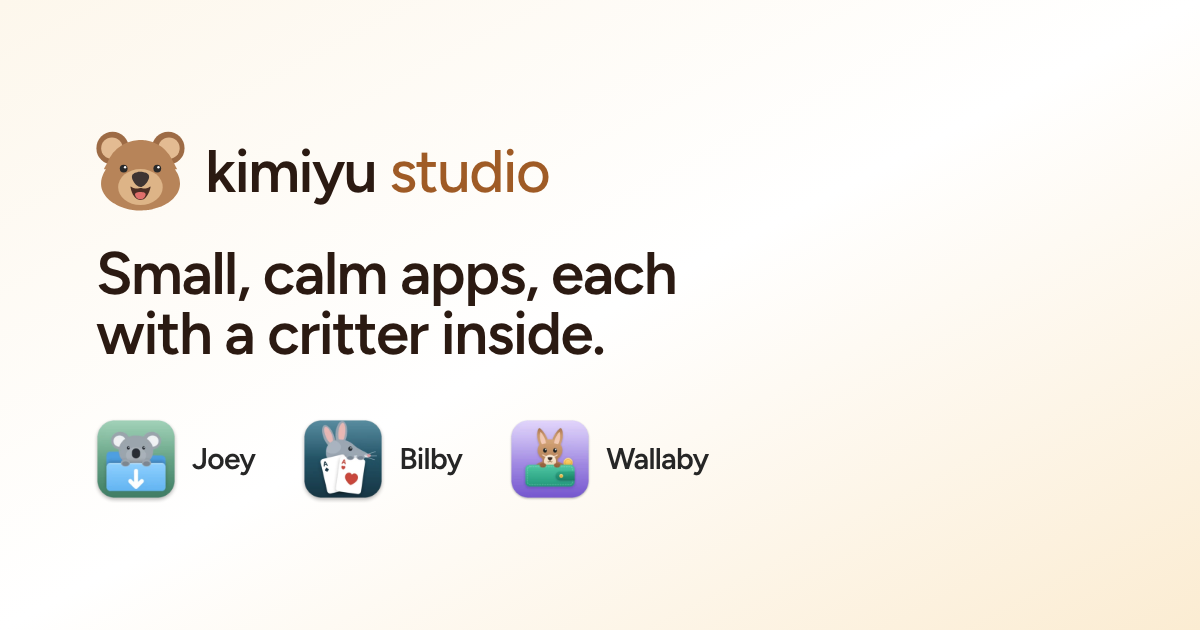
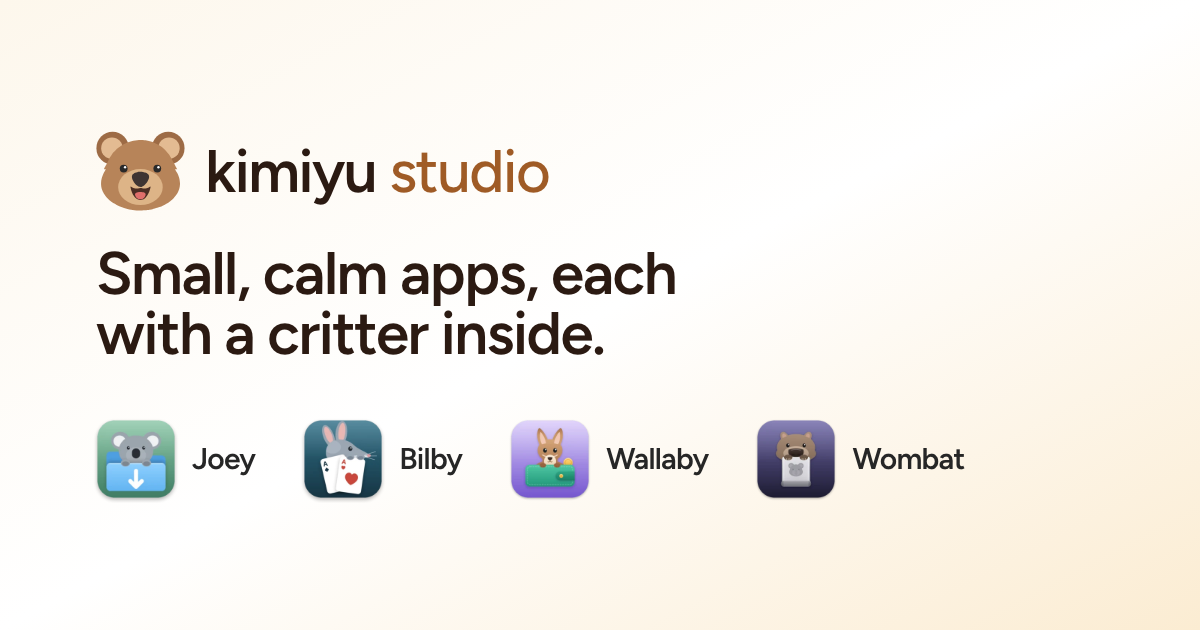
Add Wombat to the apps
Fourth card (burrow colour from wombat.web), its icon, the share image,
meta description, legal links and tests. The cards now sit two by two.

Changed region(s): [[0.6167, 0.6635, 0.8017, 0.8143]]

diff --git a/public/build/assets/app-BUD_Z4BQ.css b/public/build/assets/app-BUD_Z4BQ.css
@@ -1,0 +1,2 @@
+/*! tailwindcss v4.3.3 | MIT License | https://tailwindcss.com */
+@layer properties{@supports (((-webkit-hyphens:none)) and (not (margin-trim:inline))) or ((-moz-orient:inline) and (not (color:rgb(from red r g b)))){*,:before,:after,::backdrop{--tw-space-y-reverse:0;--tw-divide-y-reverse:0;--tw-border-style:solid;--tw-gradient-position:initial;--tw-gradient-from:#0000;--tw-gradient-via:#0000;--tw-gradient-to:#0000;--tw-gradient-stops:initial;--tw-gradient-via-stops:initial;--tw-gradient-from-position:0%;--tw-gradient-via-position:50%;--tw-gradient-to-position:100%;--tw-font-weight:initial;--tw-tracking:initial;--tw-shadow:0 0 #0000;--tw-shadow-color:initial;--tw-shadow-alpha:100%;--tw-inset-shadow:0 0 #0000;--tw-inset-shadow-color:initial;--tw-inset-shadow-alpha:100%;--tw-ring-color:initial;--tw-ring-shadow:0 0 #0000;--tw-inset-ring-color:initial;--tw-inset-ring-shadow:0 0 #0000;--tw-ring-inset:initial;--tw-ring-offset-width:0px;--tw-ring-offset-color:#fff;--tw-ring-offset-shadow:0 0 #0000;--tw-translate-x:0;--tw-translate-y:0;--tw-translate-z:0;--tw-outline-style:solid}}}@layer theme{:root,:host{--font-sans:var(--font-inter), ui-sans-serif, system-ui, sans-serif;--font-mono:ui-monospace, SFMono-Regular, Menlo, Monaco, Consolas, "Liberation Mono", "Courier New", monospace;--color-neutral-500:oklch(55.6% 0 none);--color-neutral-600:oklch(43.9% 0 none);--color-neutral-700:oklch(37.1% 0 none);--color-neutral-800:oklch(26.9% 0 none);--color-neutral-950:oklch(14.5% 0 none);--color-white:#fff;--spacing:.25rem;--container-6xl:72rem;--text-sm:.875rem;--text-base:1rem;--text-lg:1.125rem;--text-xl:1.25rem;--text-xl--line-height:calc(1.75 / 1.25);--text-2xl:1.5rem;--text-2xl--line-height:calc(2 / 1.5);--text-3xl:1.875rem;--text-3xl--line-height:calc(2.25 / 1.875);--text-4xl:2.25rem;--text-4xl--line-height:calc(2.5 / 2.25);--text-5xl:3rem;--text-5xl--line-height:1;--text-6xl:3.75rem;--text-6xl--line-height:1;--text-7xl:4.5rem;--text-7xl--line-height:1;--font-weight-normal:400;--font-weight-medium:500;--font-weight-semibold:600;--tracking-tight:-.025em;--radius-3xl:1.5rem;--default-transition-duration:.15s;--default-transition-timing-function:cubic-bezier(.4, 0, .2, 1);--default-font-family:var(--font-sans);--default-font-feature-settings:var(--font-sans--font-feature-settings);--default-mono-font-family:var(--font-mono);--font-sans--font-feature-settings:"cv02", "cv03", "cv04", "cv11";--font-display:var(--font-figtree), ui-sans-serif, system-ui, sans-serif;--color-honey-50:#fdf7ec;--color-honey-100:#fbecd2;--color-honey-600:#9f5b26;--color-honey-700:#824a22;--color-honey-800:#6b3d20;--color-honey-950:#2b1a12;--color-gum-50:#f1f8f4;--color-gum-700:#2f6450;--color-gum-950:#10261e;--color-chip-50:#eef7f9;--color-chip-700:#24576a;--color-chip-950:#112832;--color-lilac-50:#f6f3fe;--color-lilac-700:#6243b3;--color-lilac-950:#2a1d4d;--color-burrow-50:#f4f4fa;--color-burrow-700:#484276;--color-burrow-950:#1d1b31}}@layer base{*,:after,:before,::backdrop{box-sizing:border-box;border:0 solid;margin:0;padding:0}::file-selector-button{box-sizing:border-box;border:0 solid;margin:0;padding:0}html,:host{-webkit-text-size-adjust:100%;tab-size:4;line-height:1.5;font-family:var(--default-font-family,-apple-system, BlinkMacSystemFont, "Segoe UI", Roboto, "Helvetica Neue", "Noto Sans", Arial, sans-serif, "Apple Color Emoji", "Segoe UI Emoji", "Segoe UI Symbol", "Noto Color Emoji");font-feature-settings:var(--default-font-feature-settings,normal);font-variation-settings:var(--default-font-variation-settings,normal);-webkit-tap-highlight-color:transparent}hr{height:0;color:inherit;border-top-width:1px}abbr:where([title]){-webkit-text-decoration:underline dotted;text-decoration:underline dotted}h1,h2,h3,h4,h5,h6{font-size:inherit;font-weight:inherit}a{color:inherit;-webkit-text-decoration:inherit;-webkit-text-decoration:inherit;-webkit-text-decoration:inherit;-webkit-text-decoration:inherit;text-decoration:inherit}b,strong{font-weight:bolder}code,kbd,samp,pre{font-family:var(--default-mono-font-family,ui-monospace, SFMono-Regular, Menlo, Monaco, Consolas, "Liberation Mono", "Courier New", monospace);font-feature-settings:var(--default-mono-font-feature-settings,normal);font-variation-settings:var(--default-mono-font-variation-settings,normal);font-size:1em}small{font-size:80%}sub,sup{vertical-align:baseline;font-size:75%;line-height:0;position:relative}sub{bottom:-.25em}sup{top:-.5em}table{text-indent:0;border-color:inherit;border-collapse:collapse}:-moz-focusring:where(:not(iframe)){outline:auto}progress{vertical-align:baseline}summary{display:list-item}ol,ul,menu{list-style:none}img,svg,video,canvas,audio,iframe,embed,object{vertical-align:middle;display:block}img,video{max-width:100%;height:auto}button,input,select,optgroup,textarea{font:inherit;font-feature-settings:inherit;font-variation-settings:inherit;letter-spacing:inherit;color:inherit;opacity:1;background-color:#0000;border-radius:0}::file-selector-button{font:inherit;font-feature-settings:inherit;font-variation-settings:inherit;letter-spacing:inherit;color:inherit;opacity:1;background-color:#0000;border-radius:0}:where(select:is([multiple],[size])) optgroup{font-weight:bolder}:where(select:is([multiple],[size])) optgroup option{padding-inline-start:20px}::file-selector-button{margin-inline-end:4px}::placeholder{opacity:1}@supports (not ((-webkit-appearance:-apple-pay-button))) or (contain-intrinsic-size:1px){::placeholder{color:currentColor}@supports (color:color-mix(in lab, red, red)){::placeholder{color:color-mix(in oklab, currentcolor 50%, transparent)}}}textarea{resize:vertical}::-webkit-search-decoration{-webkit-appearance:none}::-webkit-date-and-time-value{min-height:1lh;text-align:inherit}::-webkit-datetime-edit{display:inline-flex}::-webkit-datetime-edit-fields-wrapper{padding:0}::-webkit-datetime-edit{padding-block:0}::-webkit-datetime-edit-year-field{padding-block:0}::-webkit-datetime-edit-month-field{padding-block:0}::-webkit-datetime-edit-day-field{padding-block:0}::-webkit-datetime-edit-hour-field{padding-block:0}::-webkit-datetime-edit-minute-field{padding-block:0}::-webkit-datetime-edit-second-field{padding-block:0}::-webkit-datetime-edit-millisecond-field{padding-block:0}::-webkit-datetime-edit-meridiem-field{padding-block:0}::-webkit-calendar-picker-indicator{line-height:1}:-moz-ui-invalid{box-shadow:none}button,input:where([type=button],[type=reset],[type=submit]){appearance:button}::file-selector-button{appearance:button}::-webkit-inner-spin-button{height:auto}::-webkit-outer-spin-button{height:auto}[hidden]:where(:not([hidden=until-found])){display:none!important}}@layer components;@layer utilities{.absolute{position:absolute}.relative{position:relative}.inset-x-0{inset-inline:0}.top-0{top:0}.isolate{isolation:isolate}.-z-10{z-index:calc(10 * -1)}.-m-2{margin:calc(var(--spacing) * -2)}.m-0{margin:0}.mx-auto{margin-inline:auto}.mt-1{margin-top:var(--spacing)}.mt-2{margin-top:calc(var(--spacing) * 2)}.mt-4{margin-top:calc(var(--spacing) * 4)}.mt-6{margin-top:calc(var(--spacing) * 6)}.mt-8{margin-top:calc(var(--spacing) * 8)}.mt-10{margin-top:calc(var(--spacing) * 10)}.mt-14{margin-top:calc(var(--spacing) * 14)}.mt-16{margin-top:calc(var(--spacing) * 16)}.mt-auto{margin-top:auto}.flex{display:flex}.grid{display:grid}.inline-flex{display:inline-flex}.size-5{width:calc(var(--spacing) * 5);height:calc(var(--spacing) * 5)}.size-6{width:calc(var(--spacing) * 6);height:calc(var(--spacing) * 6)}.size-24{width:calc(var(--spacing) * 24);height:calc(var(--spacing) * 24)}.h-6{height:calc(var(--spacing) * 6)}.h-7{height:calc(var(--spacing) * 7)}.h-20{height:calc(var(--spacing) * 20)}.h-\[44rem\]{height:44rem}.h-\[630px\]{height:630px}.w-\[1200px\]{width:1200px}.w-auto{width:auto}.w-full{width:100%}.max-w-6xl{max-width:var(--container-6xl)}.max-w-\[20ch\]{max-width:20ch}.max-w-\[22ch\]{max-width:22ch}.max-w-\[30ch\]{max-width:30ch}.max-w-\[48ch\]{max-width:48ch}.max-w-\[56ch\]{max-width:56ch}.max-w-\[65ch\]{max-width:65ch}.shrink-0{flex-shrink:0}.scroll-mt-8{scroll-margin-top:calc(var(--spacing) * 8)}.grid-cols-1{grid-template-columns:repeat(1,minmax(0,1fr))}.flex-col{flex-direction:column}.flex-wrap{flex-wrap:wrap}.items-center{align-items:center}.justify-between{justify-content:space-between}.justify-center{justify-content:center}.justify-end{justify-content:flex-end}.gap-4{gap:calc(var(--spacing) * 4)}.gap-6{gap:calc(var(--spacing) * 6)}.gap-8{gap:calc(var(--spacing) * 8)}:where(.space-y-4>:not(:last-child)){--tw-space-y-reverse:0;margin-block-start:calc(calc(var(--spacing) * 4) * var(--tw-space-y-reverse));margin-block-end:calc(calc(var(--spacing) * 4) * calc(1 - var(--tw-space-y-reverse)))}.gap-x-1\.5{column-gap:calc(var(--spacing) * 1.5)}.gap-x-2{column-gap:calc(var(--spacing) * 2)}.gap-x-2\.5{column-gap:calc(var(--spacing) * 2.5)}.gap-x-3{column-gap:calc(var(--spacing) * 3)}.gap-x-4{column-gap:calc(var(--spacing) * 4)}.gap-x-5{column-gap:calc(var(--spacing) * 5)}.gap-x-6{column-gap:calc(var(--spacing) * 6)}.gap-x-8{column-gap:calc(var(--spacing) * 8)}.gap-x-12{column-gap:calc(var(--spacing) * 12)}.gap-y-2{row-gap:calc(var(--spacing) * 2)}.gap-y-4{row-gap:calc(var(--spacing) * 4)}:where(.divide-y>:not(:last-child)){--tw-divide-y-reverse:0;border-bottom-style:var(--tw-border-style);border-top-style:var(--tw-border-style);border-top-width:calc(1px * var(--tw-divide-y-reverse));border-bottom-width:calc(1px * calc(1 - var(--tw-divide-y-reverse)))}:where(.divide-neutral-950\/5>:not(:last-child)){border-color:#0a0a0a0d}@supports (color:color-mix(in lab, red, red)){:where(.divide-neutral-950\/5>:not(:last-child)){border-color:color-mix(in oklab, var(--color-neutral-950) 5%, transparent)}}.self-start{align-self:flex-start}.overflow-hidden{overflow:hidden}.rounded-3xl{border-radius:var(--radius-3xl)}.rounded-full{border-radius:2147483647px}.border-t{border-top-style:var(--tw-border-style);border-top-width:1px}.border-neutral-950\/5{border-color:#0a0a0a0d}@supports (color:color-mix(in lab, red, red)){.border-neutral-950\/5{border-color:color-mix(in oklab, var(--color-neutral-950) 5%, transparent)}}.bg-honey-600{background-color:var(--color-honey-600)}.bg-white{background-color:var(--color-white)}.bg-linear-to-b{--tw-gradient-position:to bottom}@supports (background-image:linear-gradient(in lab, red, red)){.bg-linear-to-b{--tw-gradient-position:to bottom in oklab}}.bg-linear-to-b{background-image:linear-gradient(var(--tw-gradient-stops))}.bg-linear-to-br{--tw-gradient-position:to bottom right}@supports (background-image:linear-gradient(in lab, red, red)){.bg-linear-to-br{--tw-gradient-position:to bottom right in oklab}}.bg-linear-to-br{background-image:linear-gradient(var(--tw-gradient-stops))}.from-burrow-50{--tw-gradient-from:var(--color-burrow-50);--tw-gradient-stops:var(--tw-gradient-via-stops,var(--tw-gradient-position), var(--tw-gradient-from) var(--tw-gradient-from-position), var(--tw-gradient-to) var(--tw-gradient-to-position))}.from-chip-50{--tw-gradient-from:var(--color-chip-50);--tw-gradient-stops:var(--tw-gradient-via-stops,var(--tw-gradient-position), var(--tw-gradient-from) var(--tw-gradient-from-position), var(--tw-gradient-to) var(--tw-gradient-to-position))}.from-gum-50{--tw-gradient-from:var(--color-gum-50);--tw-gradient-stops:var(--tw-gradient-via-stops,var(--tw-gradient-position), var(--tw-gradient-from) var(--tw-gradient-from-position), var(--tw-gradient-to) var(--tw-gradient-to-position))}.from-honey-50{--tw-gradient-from:var(--color-honey-50);--tw-gradient-stops:var(--tw-gradient-via-stops,var(--tw-gradient-position), var(--tw-gradient-from) var(--tw-gradient-from-position), var(--tw-gradient-to) var(--tw-gradient-to-position))}.from-lilac-50{--tw-gradient-from:var(--color-lilac-50);--tw-gradient-stops:var(--tw-gradient-via-stops,var(--tw-gradient-position), var(--tw-gradient-from) var(--tw-gradient-from-position), var(--tw-gradient-to) var(--tw-gradient-to-position))}.via-white{--tw-gradient-via:var(--color-white);--tw-gradient-via-stops:var(--tw-gradient-position), var(--tw-gradient-from) var(--tw-gradient-from-position), var(--tw-gradient-via) var(--tw-gradient-via-position), var(--tw-gradient-to) var(--tw-gradient-to-position);--tw-gradient-stops:var(--tw-gradient-via-stops)}.to-honey-100{--tw-gradient-to:var(--color-honey-100);--tw-gradient-stops:var(--tw-gradient-via-stops,var(--tw-gradient-position), var(--tw-gradient-from) var(--tw-gradient-from-position), var(--tw-gradient-to) var(--tw-gradient-to-position))}.to-white{--tw-gradient-to:var(--color-white);--tw-gradient-stops:var(--tw-gradient-via-stops,var(--tw-gradient-position), var(--tw-gradient-from) var(--tw-gradient-from-position), var(--tw-gradient-to) var(--tw-gradient-to-position))}.to-60\%{--tw-gradient-to-position:60%}.fill-current{fill:currentColor}.fill-white{fill:var(--color-white)}.stroke-honey-600{stroke:var(--color-honey-600)}.p-8{padding:calc(var(--spacing) * 8)}.px-3{padding-inline:calc(var(--spacing) * 3)}.px-6{padding-inline:calc(var(--spacing) * 6)}.px-24{padding-inline:calc(var(--spacing) * 24)}.py-1\.5{padding-block:calc(var(--spacing) * 1.5)}.py-3{padding-block:calc(var(--spacing) * 3)}.py-5{padding-block:calc(var(--spacing) * 5)}.py-10{padding-block:calc(var(--spacing) * 10)}.py-12{padding-block:calc(var(--spacing) * 12)}.py-24{padding-block:calc(var(--spacing) * 24)}.pt-8{padding-top:calc(var(--spacing) * 8)}.pt-10{padding-top:calc(var(--spacing) * 10)}.pt-16{padding-top:calc(var(--spacing) * 16)}.pr-4{padding-right:calc(var(--spacing) * 4)}.pr-5{padding-right:calc(var(--spacing) * 5)}.pb-24{padding-bottom:calc(var(--spacing) * 24)}.pl-4{padding-left:calc(var(--spacing) * 4)}.pl-5{padding-left:calc(var(--spacing) * 5)}.text-center{text-align:center}.font-sans{font-family:var(--font-sans);font-feature-settings:var(--font-sans--font-feature-settings)}.font-display{font-family:var(--font-display)}.text-2xl{font-size:var(--text-2xl);line-height:var(--tw-leading,var(--text-2xl--line-height))}.text-3xl{font-size:var(--text-3xl);line-height:var(--tw-leading,var(--text-3xl--line-height))}.text-4xl{font-size:var(--text-4xl);line-height:var(--tw-leading,var(--text-4xl--line-height))}.text-5xl{font-size:var(--text-5xl);line-height:var(--tw-leading,var(--text-5xl--line-height))}.text-6xl{font-size:var(--text-6xl);line-height:var(--tw-leading,var(--text-6xl--line-height))}.text-base\/6{font-size:var(--text-base);line-height:calc(var(--spacing) * 6)}.text-base\/7{font-size:var(--text-base);line-height:calc(var(--spacing) * 7)}.text-lg\/7{font-size:var(--text-lg);line-height:calc(var(--spacing) * 7)}.text-lg\/8{font-size:var(--text-lg);line-height:calc(var(--spacing) * 8)}.text-sm\/6{font-size:var(--text-sm);line-height:calc(var(--spacing) * 6)}.text-xl{font-size:var(--text-xl);line-height:var(--tw-leading,var(--text-xl--line-height))}.font-medium{--tw-font-weight:var(--font-weight-medium);font-weight:var(--font-weight-medium)}.font-normal{--tw-font-weight:var(--font-weight-normal);font-weight:var(--font-weight-normal)}.font-semibold{--tw-font-weight:var(--font-weight-semibold);font-weight:var(--font-weight-semibold)}.tracking-tight{--tw-tracking:var(--tracking-tight);letter-spacing:var(--tracking-tight)}.text-balance{text-wrap:balance}.text-pretty{text-wrap:pretty}.whitespace-nowrap{white-space:nowrap}.text-burrow-700{color:var(--color-burrow-700)}.text-burrow-950{color:var(--color-burrow-950)}.text-chip-700{color:var(--color-chip-700)}.text-chip-950{color:var(--color-chip-950)}.text-gum-700{color:var(--color-gum-700)}.text-gum-950{color:var(--color-gum-950)}.text-honey-600{color:var(--color-honey-600)}.text-honey-800{color:var(--color-honey-800)}.text-honey-950{color:var(--color-honey-950)}.text-lilac-700{color:var(--color-lilac-700)}.text-lilac-950{color:var(--color-lilac-950)}.text-neutral-500{color:var(--color-neutral-500)}.text-neutral-600{color:var(--color-neutral-600)}.text-neutral-700{color:var(--color-neutral-700)}.text-neutral-800{color:var(--color-neutral-800)}.text-neutral-950{color:var(--color-neutral-950)}.text-white{color:var(--color-white)}.antialiased{-webkit-font-smoothing:antialiased;-moz-osx-font-smoothing:grayscale}.shadow-sm{--tw-shadow:0 1px 3px 0 var(--tw-shadow-color,#0000001a), 0 1px 2px -1px var(--tw-shadow-color,#0000001a);box-shadow:var(--tw-inset-shadow), var(--tw-inset-ring-shadow), var(--tw-ring-offset-shadow), var(--tw-ring-shadow), var(--tw-shadow)}.ring-1{--tw-ring-shadow:var(--tw-ring-inset,) 0 0 0 calc(1px + var(--tw-ring-offset-width)) var(--tw-ring-color,currentcolor);box-shadow:var(--tw-inset-shadow), var(--tw-inset-ring-shadow), var(--tw-ring-offset-shadow), var(--tw-ring-shadow), var(--tw-shadow)}.ring-burrow-950\/10{--tw-ring-color:#1d1b311a}@supports (color:color-mix(in lab, red, red)){.ring-burrow-950\/10{--tw-ring-color:color-mix(in oklab, var(--color-burrow-950) 10%, transparent)}}.ring-chip-950\/10{--tw-ring-color:#1128321a}@supports (color:color-mix(in lab, red, red)){.ring-chip-950\/10{--tw-ring-color:color-mix(in oklab, var(--color-chip-950) 10%, transparent)}}.ring-gum-950\/10{--tw-ring-color:#10261e1a}@supports (color:color-mix(in lab, red, red)){.ring-gum-950\/10{--tw-ring-color:color-mix(in oklab, var(--color-gum-950) 10%, transparent)}}.ring-honey-950\/10{--tw-ring-color:#2b1a121a}@supports (color:color-mix(in lab, red, red)){.ring-honey-950\/10{--tw-ring-color:color-mix(in oklab, var(--color-honey-950) 10%, transparent)}}.ring-lilac-950\/10{--tw-ring-color:#2a1d4d1a}@supports (color:color-mix(in lab, red, red)){.ring-lilac-950\/10{--tw-ring-color:color-mix(in oklab, var(--color-lilac-950) 10%, transparent)}}@media (hover:hover){.group-hover\:translate-x-0\.5:is(:where(.group):hover *){--tw-translate-x:calc(var(--spacing) * .5);translate:var(--tw-translate-x) var(--tw-translate-y)}.hover\:bg-honey-50:hover{background-color:var(--color-honey-50)}.hover\:bg-honey-700:hover{background-color:var(--color-honey-700)}.hover\:text-honey-600:hover{color:var(--color-honey-600)}.hover\:text-honey-700:hover{color:var(--color-honey-700)}.hover\:ring-burrow-950\/20:hover{--tw-ring-color:#1d1b3133}@supports (color:color-mix(in lab, red, red)){.hover\:ring-burrow-950\/20:hover{--tw-ring-color:color-mix(in oklab, var(--color-burrow-950) 20%, transparent)}}.hover\:ring-chip-950\/20:hover{--tw-ring-color:#11283233}@supports (color:color-mix(in lab, red, red)){.hover\:ring-chip-950\/20:hover{--tw-ring-color:color-mix(in oklab, var(--color-chip-950) 20%, transparent)}}.hover\:ring-gum-950\/20:hover{--tw-ring-color:#10261e33}@supports (color:color-mix(in lab, red, red)){.hover\:ring-gum-950\/20:hover{--tw-ring-color:color-mix(in oklab, var(--color-gum-950) 20%, transparent)}}.hover\:ring-lilac-950\/20:hover{--tw-ring-color:#2a1d4d33}@supports (color:color-mix(in lab, red, red)){.hover\:ring-lilac-950\/20:hover{--tw-ring-color:color-mix(in oklab, var(--color-lilac-950) 20%, transparent)}}}.focus-visible\:outline-2:focus-visible{outline-style:var(--tw-outline-style);outline-width:2px}.focus-visible\:outline-offset-2:focus-visible{outline-offset:2px}.focus-visible\:outline-honey-600:focus-visible{outline-color:var(--color-honey-600)}@media (prefers-reduced-motion:no-preference){.motion-safe\:scroll-smooth{scroll-behavior:smooth}.motion-safe\:transition-transform{transition-property:transform,translate,scale,rotate;transition-timing-function:var(--tw-ease,var(--default-transition-timing-function));transition-duration:var(--tw-duration,var(--default-transition-duration))}}@media not all and (width>=40rem){.max-sm\:hidden{display:none}}@media (width>=40rem){.sm\:size-4{width:calc(var(--spacing) * 4);height:calc(var(--spacing) * 4)}.sm\:grid-cols-\[12rem_1fr\]{grid-template-columns:12rem 1fr}.sm\:flex-row{flex-direction:row}.sm\:items-center{align-items:center}.sm\:justify-between{justify-content:space-between}.sm\:py-32{padding-block:calc(var(--spacing) * 32)}.sm\:pt-16{padding-top:calc(var(--spacing) * 16)}.sm\:pt-24{padding-top:calc(var(--spacing) * 24)}.sm\:pb-32{padding-bottom:calc(var(--spacing) * 32)}.sm\:text-5xl{font-size:var(--text-5xl);line-height:var(--tw-leading,var(--text-5xl--line-height))}.sm\:text-7xl{font-size:var(--text-7xl);line-height:var(--tw-leading,var(--text-7xl--line-height))}.sm\:text-base\/7{font-size:var(--text-base);line-height:calc(var(--spacing) * 7)}.sm\:text-sm\/6{font-size:var(--text-sm);line-height:calc(var(--spacing) * 6)}.sm\:text-xl\/8{font-size:var(--text-xl);line-height:calc(var(--spacing) * 8)}}@media (width>=48rem){.md\:grid-cols-2{grid-template-columns:repeat(2,minmax(0,1fr))}}@media (width>=64rem){.lg\:col-span-2{grid-column:span 2/span 2}.lg\:grid-cols-3{grid-template-columns:repeat(3,minmax(0,1fr))}.lg\:items-end{align-items:flex-end}.lg\:self-end{align-self:flex-end}.lg\:px-8{padding-inline:calc(var(--spacing) * 8)}}}@property --tw-space-y-reverse{syntax:"*";inherits:false;initial-value:0}@property --tw-divide-y-reverse{syntax:"*";inherits:false;initial-value:0}@property --tw-border-style{syntax:"*";inherits:false;initial-value:solid}@property --tw-gradient-position{syntax:"*";inherits:false}@property --tw-gradient-from{syntax:"<color>";inherits:false;initial-value:#0000}@property --tw-gradient-via{syntax:"<color>";inherits:false;initial-value:#0000}@property --tw-gradient-to{syntax:"<color>";inherits:false;initial-value:#0000}@property --tw-gradient-stops{syntax:"*";inherits:false}@property --tw-gradient-via-stops{syntax:"*";inherits:false}@property --tw-gradient-from-position{syntax:"<length-percentage>";inherits:false;initial-value:0%}@property --tw-gradient-via-position{syntax:"<length-percentage>";inherits:false;initial-value:50%}@property --tw-gradient-to-position{syntax:"<length-percentage>";inherits:false;initial-value:100%}@property --tw-font-weight{syntax:"*";inherits:false}@property --tw-tracking{syntax:"*";inherits:false}@property --tw-shadow{syntax:"*";inherits:false;initial-value:0 0 #0000}@property --tw-shadow-color{syntax:"*";inherits:false}@property --tw-shadow-alpha{syntax:"<percentage>";inherits:false;initial-value:100%}@property --tw-inset-shadow{syntax:"*";inherits:false;initial-value:0 0 #0000}@property --tw-inset-shadow-color{syntax:"*";inherits:false}@property --tw-inset-shadow-alpha{syntax:"<percentage>";inherits:false;initial-value:100%}@property --tw-ring-color{syntax:"*";inherits:false}@property --tw-ring-shadow{syntax:"*";inherits:false;initial-value:0 0 #0000}@property --tw-inset-ring-color{syntax:"*";inherits:false}@property --tw-inset-ring-shadow{syntax:"*";inherits:false;initial-value:0 0 #0000}@property --tw-ring-inset{syntax:"*";inherits:false}@property --tw-ring-offset-width{syntax:"<length>";inherits:false;initial-value:0}@property --tw-ring-offset-color{syntax:"*";inherits:false;initial-value:#fff}@property --tw-ring-offset-shadow{syntax:"*";inherits:false;initial-value:0 0 #0000}@property --tw-translate-x{syntax:"*";inherits:false;initial-value:0}@property --tw-translate-y{syntax:"*";inherits:false;initial-value:0}@property --tw-translate-z{syntax:"*";inherits:false;initial-value:0}@property --tw-outline-style{syntax:"*";inherits:false;initial-value:solid}

diff --git a/resources/css/app.css b/resources/css/app.css
@@ -31,4 +31,7 @@
     --color-lilac-50: #f6f3fe;
     --color-lilac-700: #6243b3;
     --color-lilac-950: #2a1d4d;
+    --color-burrow-50: #f4f4fa;
+    --color-burrow-700: #484276;
+    --color-burrow-950: #1d1b31;
 }

diff --git a/resources/views/home.blade.php b/resources/views/home.blade.php
@@ -65,13 +65,13 @@
             <div class="mx-auto max-w-6xl px-6 lg:px-8">
                 <p class="text-base/7 font-semibold text-honey-600">The apps</p>
                 <h2 class="mt-2 max-w-[30ch] font-display text-4xl font-semibold tracking-tight text-balance text-honey-950 sm:text-5xl">
-                    Three critters, three small jobs
+                    Four critters, four small jobs
                 </h2>
                 <p class="mt-6 max-w-[48ch] text-lg/8 text-pretty text-neutral-600">
                     Each app has its own website, with everything you need to get started.
                 </p>
 
-                <ul role="list" class="mt-16 grid grid-cols-1 gap-8 lg:grid-cols-3">
+                <ul role="list" class="mt-16 grid grid-cols-1 gap-8 md:grid-cols-2">
                     @foreach ($apps as $app)
                         <li class="flex">
                             <x-app-card :app="$app" class="w-full" />
@@ -103,7 +103,7 @@
                     Experience knows what’s worth building. AI makes building it fast. Together they turn a good idea into a finished app in days, not months.
                 </p>
 
-                <dl class="mt-16 grid grid-cols-1 gap-8 lg:grid-cols-3">
+                <dl class="mt-16 grid grid-cols-1 gap-8 md:grid-cols-2">
                     @foreach ($principles as $principle)
                         <div>
                             <dt class="flex items-center gap-x-3 text-lg/7 font-semibold text-honey-950 sm:text-base/7">
@@ -126,7 +126,7 @@
                         Questions, ideas or a bug to report?
                     </h2>
                     <p class="mt-6 max-w-[48ch] text-lg/8 text-pretty text-neutral-600">
-                        Write to us. For Joey, you can also open an issue on GitHub.
+                        Write to us. For Joey and Wombat, you can also open an issue on GitHub.
                     </p>
                 </div>
                 <div class="flex flex-col justify-end gap-4 lg:items-end">

diff --git a/resources/views/components/layouts/app.blade.php b/resources/views/components/layouts/app.blade.php
@@ -1,6 +1,6 @@
 @props([
     'title' => 'kimiyu studio: small, calm apps, each with a critter inside',
-    'description' => 'kimiyu studio makes small, calm apps: Joey, a BitTorrent client for the Mac; Bilby, a poker tournament clock; and Wallaby, a shared tab for couples and housemates.',
+    'description' => 'kimiyu studio makes small, calm apps: Joey, a BitTorrent client for the Mac; Bilby, a poker tournament clock; Wallaby, a shared tab for couples and housemates; and Wombat, a disk space app for the Mac.',
 ])
 
 @php
@@ -25,7 +25,7 @@
     <meta property="og:image" content="{{ asset('images/og.png') }}">
     <meta property="og:image:width" content="1200">
     <meta property="og:image:height" content="630">
-    <meta property="og:image:alt" content="The kimiyu bear next to the words: Small, calm apps, each with a critter inside. Below, the icons of Joey, Bilby and Wallaby.">
+    <meta property="og:image:alt" content="The kimiyu bear next to the words: Small, calm apps, each with a critter inside. Below, the icons of Joey, Bilby, Wallaby and Wombat.">
     <meta name="twitter:card" content="summary_large_image">
 
     <link rel="icon" type="image/svg+xml" href="{{ asset('favicon.svg') }}">

diff --git a/resources/views/legal.blade.php b/resources/views/legal.blade.php
@@ -28,7 +28,8 @@
                 <h2 class="font-display text-2xl font-semibold tracking-tight text-honey-950">The apps</h2>
                 <div class="max-w-[65ch] space-y-4 text-base/7 text-pretty text-neutral-600">
                     <p>
-                        Read about <a href="https://joey.kimiyu.ch/legal" class="font-medium text-honey-800 hover:text-honey-600">Joey’s legal notice</a>
+                        Read about <a href="https://joey.kimiyu.ch/legal" class="font-medium text-honey-800 hover:text-honey-600">Joey’s legal notice</a>,
+                        <a href="https://wombat.kimiyu.ch/legal" class="font-medium text-honey-800 hover:text-honey-600">Wombat’s legal notice</a>
                         and <a href="https://wallaby.kimiyu.ch/privacy" class="font-medium text-honey-800 hover:text-honey-600">Wallaby’s privacy policy</a>
                         on their websites.
                     </p>

diff --git a/config/kimiyu.php b/config/kimiyu.php
@@ -38,6 +38,16 @@ return [
             'details' => 'Made for two people · Phone and computer',
             'color' => 'lilac',
         ],
+        [
+            'name' => 'Wombat',
+            'url' => 'https://wombat.kimiyu.ch',
+            'icon' => 'images/wombat.webp',
+            'icon_alt' => 'The Wombat app icon: a wombat peeking over a Mac drive',
+            'tagline' => 'Digs up where your disk space went.',
+            'description' => 'A small, native disk space app for your Mac. It shows what fills the disk and helps you clear out caches, build leftovers and old node_modules, without touching anything you didn’t pick.',
+            'details' => 'Free · macOS, Apple Silicon',
+            'color' => 'burrow',
+        ],
     ],
 
 ];

diff --git a/resources/views/components/app-card.blade.php b/resources/views/components/app-card.blade.php
@@ -6,6 +6,7 @@
         'gum' => ['card' => 'from-gum-50 ring-gum-950/10 hover:ring-gum-950/20', 'name' => 'text-gum-950', 'accent' => 'text-gum-700'],
         'chip' => ['card' => 'from-chip-50 ring-chip-950/10 hover:ring-chip-950/20', 'name' => 'text-chip-950', 'accent' => 'text-chip-700'],
         'lilac' => ['card' => 'from-lilac-50 ring-lilac-950/10 hover:ring-lilac-950/20', 'name' => 'text-lilac-950', 'accent' => 'text-lilac-700'],
+        'burrow' => ['card' => 'from-burrow-50 ring-burrow-950/10 hover:ring-burrow-950/20', 'name' => 'text-burrow-950', 'accent' => 'text-burrow-700'],
     ][$app['color']];
     $host = parse_url($app['url'], PHP_URL_HOST);
 @endphp

diff --git a/tests/Feature/SeoTest.php b/tests/Feature/SeoTest.php
@@ -31,6 +31,6 @@ class SeoTest extends TestCase
 
         $this->assertSame('https://schema.org', $data['@context']);
         $this->assertSame('kimiyu studio', $data['name']);
-        $this->assertSame(['Joey', 'Bilby', 'Wallaby'], array_column($data['owns'], 'name'));
+        $this->assertSame(['Joey', 'Bilby', 'Wallaby', 'Wombat'], array_column($data['owns'], 'name'));
     }
 }

diff --git a/tests/Feature/HomePageTest.php b/tests/Feature/HomePageTest.php
@@ -13,6 +13,7 @@ class HomePageTest extends TestCase
             ->assertSee('https://joey.kimiyu.ch')
             ->assertSee('https://bilby.kimiyu.ch')
             ->assertSee('https://wallaby.kimiyu.ch')
+            ->assertSee('https://wombat.kimiyu.ch')
             ->assertDontSee('amor.kimiyu.ch');
     }
 

diff --git a/NEXT.md b/NEXT.md
@@ -20,6 +20,7 @@ Turn kimiyu.ch into the landing page of the kimiyu studio: a single page that sh
 | **Bilby** | A calm poker tournament clock for the browser, Mac, iPad and iPhone. Free, no account | https://bilby.kimiyu.ch | `kimiyuch/bilby.app` + `kimiyuch/bilby.web` |
 | **Amor** | Photograph the duty roster, and every shift goes into your calendar | https://amor.kimiyu.ch (behind a password, a personal tool; **not shown on the page**, decided 2026-10-11) | `kimiyuch/amor.web` |
 | **Wallaby** | Split expenses, not relationships: a running tab for couples and housemates | https://wallaby.kimiyu.ch | `kimiyuch/wallaby.web` |
+| **Wombat** | A small, native disk space app for macOS: shows what fills the disk and helps clear it (added to the page 2026-10-15, colour `burrow`) | https://wombat.kimiyu.ch | `kimiyuch/wombat.app` + `kimiyuch/wombat.web` |
 
 Each product is an Australian animal, drawn as a cute flat animal peeking over the app's object on a rounded gradient tile.
 
